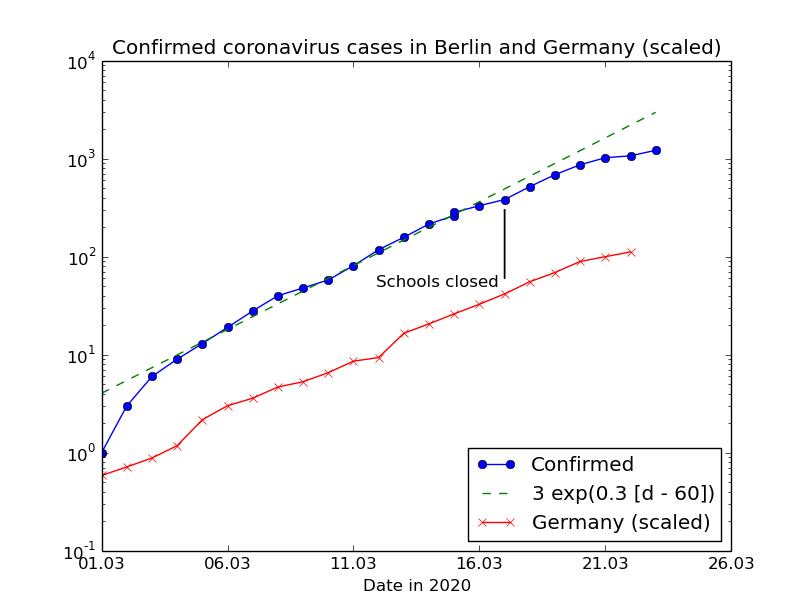
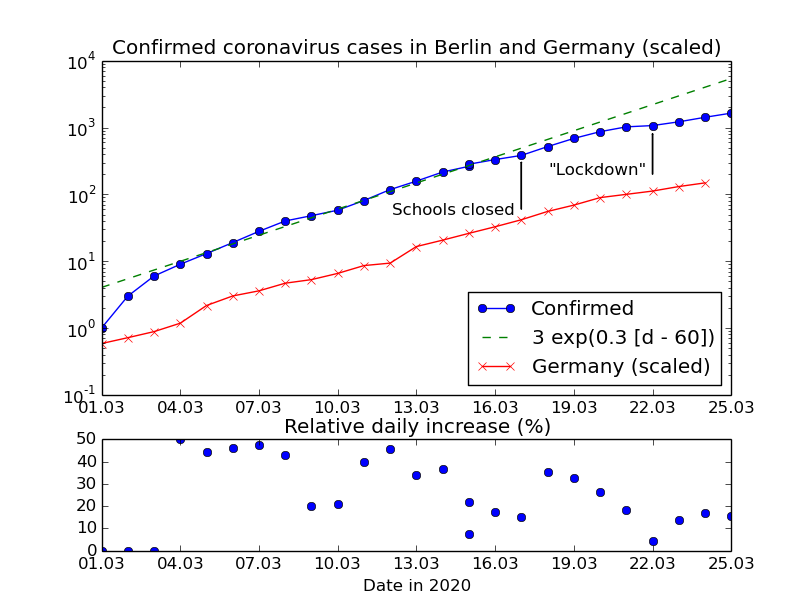
Add rate subplot, and update numbers

diff --git a/plot.py b/plot.py
@@ -38,22 +38,41 @@ r = 0.3
 z = A * np.exp(r * (doys - 60))
 
 fig = plt.figure()
+gs = matplotlib.gridspec.GridSpec(nrows=2, ncols=1, height_ratios=[3,1])
+
 myFmt = matplotlib.dates.DateFormatter('%d.%m')
-fig.gca().xaxis.set_major_formatter(myFmt)
 
-plt.semilogy(doys-1, values, marker='o', label='Confirmed')
-plt.semilogy(doys-1, z, linestyle="--", label='%g exp(%g [d - 60])' % (A, r))
-plt.arrow(77-1, 60, 0, 240)
-plt.text(76.7-1, 50, 'Schools closed', horizontalalignment='right')
+ax0 = fig.add_subplot(gs[0,0])
+ax0.xaxis_date()
+ax0.xaxis.set_major_formatter(myFmt)
 
-bpop = 3748148    # Wikipedia, 31 Dec 2018
-gpop = 831490300  # Wikipedia, 30 Sept 2019
+ax0.semilogy(doys-1, values, marker='o', label='Confirmed')
+ax0.semilogy(doys-1, z, linestyle="--", label='%g exp(%g [d - 60])' % (A, r))
+ax0.arrow(77-1, 60, 0, 240)
+ax0.text(76.7-1, 50, 'Schools closed', horizontalalignment='right')
+ax0.arrow(82-1, 200, 0, 600)
+ax0.text(81.7-1, 200, '"Lockdown"', horizontalalignment='right')
+
+bpop = 3748148    # Wikipedia, population of Berlin, at 31 Dec 2018
+gpop = 831490300  # Wikipedia, population of Germany, at 30 Sept 2019
 gscale = bpop / gpop
 
 gdates, gdoys, gvalues = fetch('virus-germany-2020.dat')
-plt.semilogy(gdoys-1, gvalues * gscale, marker='x', label='Germany (scaled)')
+ax0.semilogy(gdoys-1, gvalues * gscale, marker='x', label='Germany (scaled)')
+ax0.legend(loc='lower right')
 
 plt.title('Confirmed coronavirus cases in Berlin and Germany (scaled)')
-plt.legend(loc='lower right')
+
+rdelta = np.zeros(len(doys))
+for j in range(3, len(doys)):
+    rdelta[j] = 100.0 * (values[j] - values[j-1]) / values[j-1]
+
+ax1 = fig.add_subplot(gs[1,0])
+ax1.xaxis_date()
+ax1.xaxis.set_major_formatter(myFmt)
+ax1.plot(doys[0:]-1, rdelta[0:], 'bo')
+ax1.set_title('Relative daily increase (%)')
 plt.xlabel('Date in 2020')
+
+
 plt.show()
